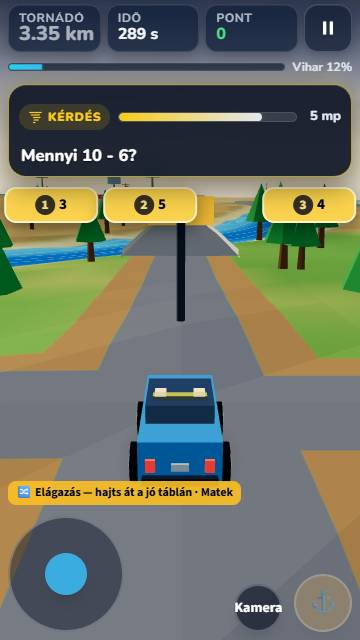
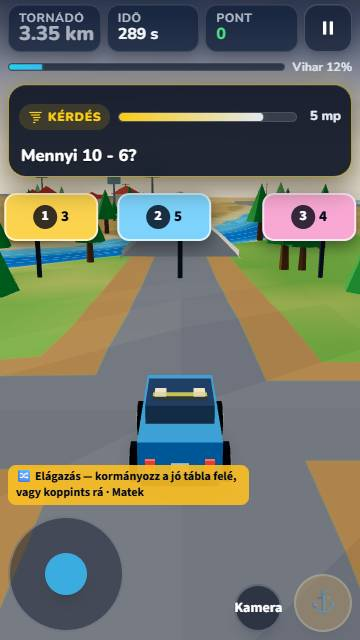
fix(jatekok): J7b – fekvőn a táblák a tárcsa mellett kezdődnek (A3); új képernyőképek (az új táblákkal, 390×844 long-answers is)

diff --git a/source/client/src/pages/TornadoHunter200.tsx b/source/client/src/pages/TornadoHunter200.tsx
@@ -2647,7 +2647,8 @@ function PlayScreen(props: {
     for (let i = 0; i < sc.signs.length; i++) if (Number.isFinite(signX[i]!)) signOrder.push(i);
     signOrder.sort((a, b) => signX[a]! - signX[b]!);
     // R4: fekvőn a bal oldali válaszlista mellett (a lista ≤ min(28vw, 236) széles) kezdődnek a táblák.
-    const left = (sideList && compact ? Math.min(w * 0.28, 236) + 16 : 4) + labelW / 2;
+    // Alacsony fekvőn a tárcsa (bal alsó sarok, ≤ ~140 px széles) mellett kezdődnek — a magas kártya alá tolt tábla se lógjon rá (A3).
+    const left = (sideList && compact ? Math.min(w * 0.28, 236) + 16 : sideList ? 150 : 4) + labelW / 2;
     const right = w - labelW / 2 - 4;
     const spread = () => {
       for (let k = 1; k < signOrder.length; k++) {
